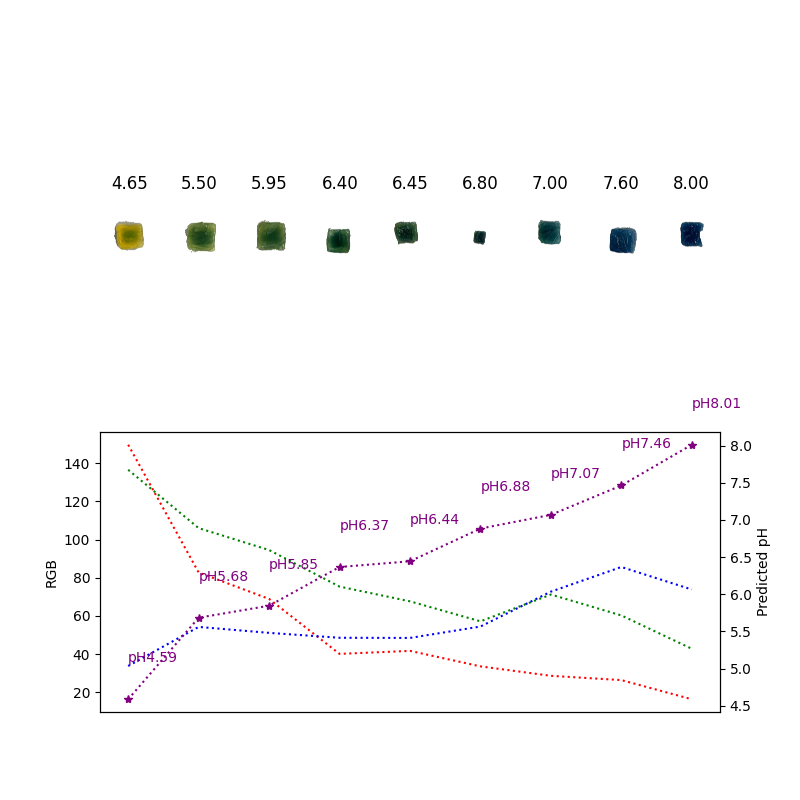
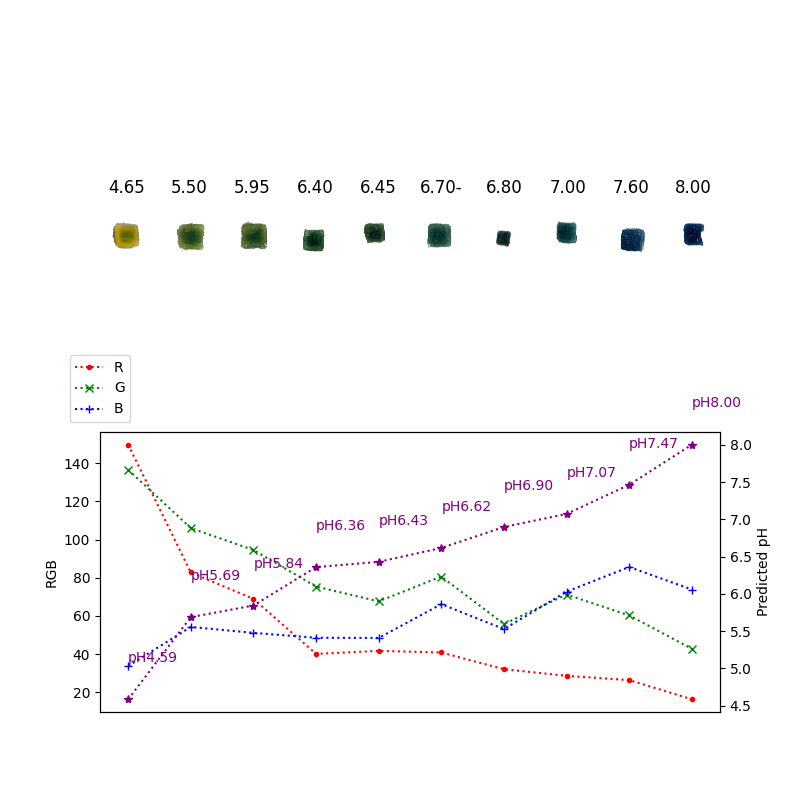
1

diff --git a/ph_measurement.py b/ph_measurement.py
@@ -106,13 +106,13 @@ def predict_pH(imgs):
     rgb.append(average_rgb(processed_images[i]))
   # Show values of R
   red = np.array([i[0] for i in rgb])
-  axes[1, 0].plot(range(0, number), red, color="red", linestyle=":")
+  p1 = axes[1, 0].plot(range(0, number), red, color="red", marker=".", linestyle=":")
   # Show values of G
   green = np.array([i[1] for i in rgb])
-  axes[1, 0].plot(range(0, number), green, color="green", linestyle=":")
+  p2 = axes[1, 0].plot(range(0, number), green, color="green", marker="x", linestyle=":")
   # Show values of B
   blue = np.array([i[2] for i in rgb])
-  axes[1, 0].plot(range(0, number), blue, color="blue", linestyle=":")
+  p3 = axes[1, 0].plot(range(0, number), blue, color="blue", marker="+", linestyle=":")
   # Hide x axis
   axes[1, 0].axes.get_xaxis().set_visible(False)
   # Y label
@@ -124,6 +124,8 @@ def predict_pH(imgs):
   axe_ph.plot(range(0, number), pH, 'r', color="purple", marker="*", linestyle=":")
   for a, b in zip(range(0, number), pH): 
     axe_ph.text(a, b + 0.5, "pH" + str("{:.2f}".format(b)), color="purple")
+  # Add legends
+  axes[1, 0].legend((p1[0], p2[0], p3[0]), ("R", "G", "B"), loc='upper center', bbox_to_anchor=(0, 1.3))
   plt.show()
 
 def main():
